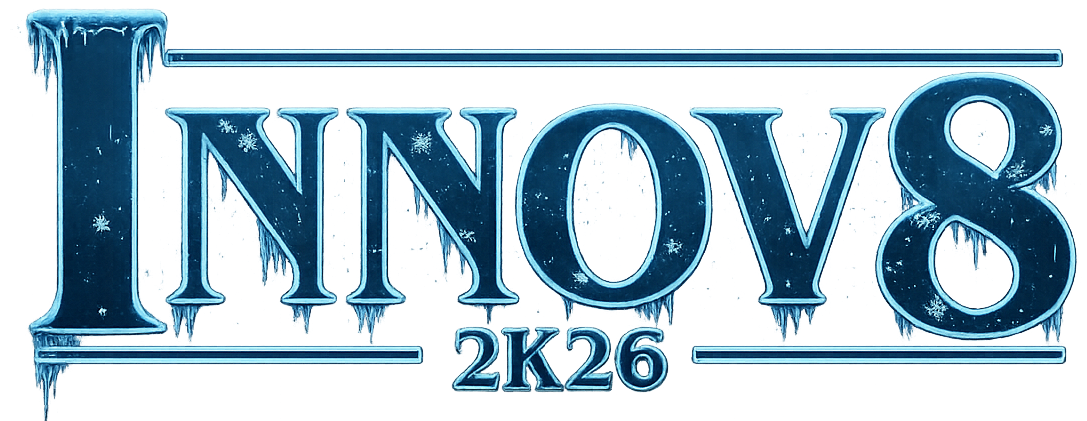
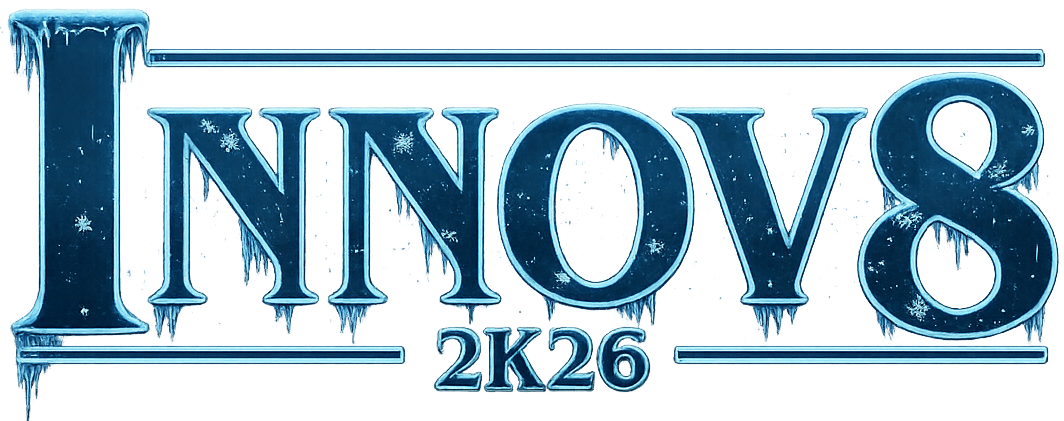
Updated UI fixes and spacing improvements

diff --git a/src/components/HeroSection.tsx b/src/components/HeroSection.tsx
@@ -27,7 +27,7 @@ const HeroSection: React.FC = () => {
         overflow: "hidden",
       }}
     >
-      {/* Google Font Import */}
+      {/* Google Font Import (INLINE SAFE) */}
       <style>
         {`
           @import url('https://fonts.googleapis.com/css2?family=Irish+Grover&display=swap');
@@ -53,10 +53,10 @@ const HeroSection: React.FC = () => {
         {/* Subtitle */}
         <p
           style={{
-            fontSize: "16px", // ⬆ increased
-            letterSpacing: "0.32em",
+            fontSize: "14px",
+            letterSpacing: "0.3em",
             textTransform: "uppercase",
-            marginBottom: "26px",
+            marginBottom: "24px",
             color: isStrangerWorld
               ? "rgba(255,120,120,0.85)"
               : "rgba(120,170,255,0.85)",
@@ -67,37 +67,47 @@ const HeroSection: React.FC = () => {
           Department of Computer Science and Engineering proudly presents
         </p>
 
-        {/* Title Image Switch */}
+        {/* ✅ TITLE IMAGE SWITCH (PERFECTLY CENTERED & RESPONSIVE) */}
         <div
           style={{
             position: "relative",
-            marginBottom: "28px",
+            marginBottom: "24px",
+            width: "100%",
+            maxWidth: "720px",
+            marginInline: "auto",
           }}
         >
+          {/* Normal World */}
           <img
             src={titleNormal1}
             alt="Normal World"
             style={{
-              width: "760px", // ⬆ slightly bigger
-              maxWidth: "92%",
+              width: "100%",
+              height: "auto",
+              display: "block",
+              margin: "0 auto",
               transition: "all 0.7s ease",
               opacity: isStrangerWorld ? 0 : 1,
               transform: isStrangerWorld ? "scale(0.95)" : "scale(1)",
+              position: isStrangerWorld ? "absolute" : "relative",
+              inset: 0,
             }}
           />
 
+          {/* Stranger World */}
           <img
             src={titleNormal2}
             alt="Stranger World"
             style={{
-              position: "absolute",
-              inset: 0,
-              margin: "auto",
-              width: "760px", // ⬆ slightly bigger
-              maxWidth: "92%",
+              width: "100%",
+              height: "auto",
+              display: "block",
+              margin: "0 auto",
               transition: "all 0.7s ease",
               opacity: isStrangerWorld ? 1 : 0,
               transform: isStrangerWorld ? "scale(1)" : "scale(1.05)",
+              position: isStrangerWorld ? "relative" : "absolute",
+              inset: 0,
             }}
           />
         </div>
@@ -105,9 +115,9 @@ const HeroSection: React.FC = () => {
         {/* Tagline */}
         <p
           style={{
-            fontSize: "30px", // ⬆ increased
-            letterSpacing: "0.22em",
-            marginBottom: "54px",
+            fontSize: "26px",
+            letterSpacing: "0.2em",
+            marginBottom: "48px",
             color: isStrangerWorld
               ? "rgba(255,80,80,0.9)"
               : "rgba(120,170,255,0.9)",
@@ -122,11 +132,11 @@ const HeroSection: React.FC = () => {
         <button
           onClick={handleRegisterClick}
           style={{
-            padding: "18px 46px", // ⬆ increased
-            fontSize: "20px", // ⬆ increased
-            letterSpacing: "0.22em",
+            padding: "16px 40px",
+            fontSize: "18px",
+            letterSpacing: "0.2em",
             textTransform: "uppercase",
-            borderRadius: "12px",
+            borderRadius: "10px",
             cursor: "pointer",
             border: `2px solid ${
               isStrangerWorld ? "#f87171" : "#60a5fa"
@@ -136,7 +146,7 @@ const HeroSection: React.FC = () => {
             transition: "all 0.4s ease",
           }}
           onMouseEnter={(e) =>
-            (e.currentTarget.style.transform = "scale(1.08)")
+            (e.currentTarget.style.transform = "scale(1.07)")
           }
           onMouseLeave={(e) =>
             (e.currentTarget.style.transform = "scale(1)")
@@ -146,7 +156,7 @@ const HeroSection: React.FC = () => {
         </button>
 
         {/* Countdown */}
-        <div style={{ marginTop: "56px" }}>
+        <div style={{ marginTop: "50px" }}>
           <CountdownTimer />
         </div>
       </div>
@@ -165,8 +175,8 @@ const HeroSection: React.FC = () => {
             key={i}
             style={{
               position: "absolute",
-              width: "5px", // ⬆ slightly bigger
-              height: "5px",
+              width: "4px",
+              height: "4px",
               borderRadius: "50%",
               background: isStrangerWorld ? "red" : "#60a5fa",
               left: `${Math.random() * 100}%`,

diff --git a/src/components/CountdownTimer.tsx b/src/components/CountdownTimer.tsx
@@ -1,5 +1,5 @@
-import React, { useState, useEffect } from 'react';
-import { useWorld } from '@/contexts/WorldContext';
+import React, { useState, useEffect } from "react";
+import { useWorld } from "@/contexts/WorldContext";
 
 interface TimeLeft {
   days: number;
@@ -10,24 +10,24 @@ interface TimeLeft {
 
 const CountdownTimer: React.FC = () => {
   const { isStrangerWorld } = useWorld();
-  
-  // Set target date to 30 days from now for demo
-  const targetDate = new Date();
-  targetDate.setDate(targetDate.getDate() + 30);
+
+  // 🎯 FIXED EVENT DATE: February 25, 2026 (change year if needed)
+  const targetDate = new Date(2026, 1, 25, 0, 0, 0); // YYYY, MM(0-based), DD
 
   const calculateTimeLeft = (): TimeLeft => {
-    const difference = targetDate.getTime() - new Date().getTime();
-    
-    if (difference > 0) {
-      return {
-        days: Math.floor(difference / (1000 * 60 * 60 * 24)),
-        hours: Math.floor((difference / (1000 * 60 * 60)) % 24),
-        minutes: Math.floor((difference / 1000 / 60) % 60),
-        seconds: Math.floor((difference / 1000) % 60),
-      };
+    const now = new Date().getTime();
+    const difference = targetDate.getTime() - now;
+
+    if (difference <= 0) {
+      return { days: 0, hours: 0, minutes: 0, seconds: 0 };
     }
-    
-    return { days: 0, hours: 0, minutes: 0, seconds: 0 };
+
+    return {
+      days: Math.floor(difference / (1000 * 60 * 60 * 24)),
+      hours: Math.floor((difference / (1000 * 60 * 60)) % 24),
+      minutes: Math.floor((difference / (1000 * 60)) % 60),
+      seconds: Math.floor((difference / 1000) % 60),
+    };
   };
 
   const [timeLeft, setTimeLeft] = useState<TimeLeft>(calculateTimeLeft());
@@ -40,15 +40,13 @@ const CountdownTimer: React.FC = () => {
     return () => clearInterval(timer);
   }, []);
 
-  const formatNumber = (num: number): string => {
-    return num.toString().padStart(2, '0');
-  };
+  const formatNumber = (num: number) => num.toString().padStart(2, "0");
 
   const timeUnits = [
-    { label: 'Days', value: timeLeft.days },
-    { label: 'Hours', value: timeLeft.hours },
-    { label: 'Minutes', value: timeLeft.minutes },
-    { label: 'Seconds', value: timeLeft.seconds },
+    { label: "Days", value: timeLeft.days },
+    { label: "Hours", value: timeLeft.hours },
+    { label: "Minutes", value: timeLeft.minutes },
+    { label: "Seconds", value: timeLeft.seconds },
   ];
 
   return (
@@ -57,20 +55,28 @@ const CountdownTimer: React.FC = () => {
         <div
           key={unit.label}
           className={`countdown-box rounded-lg p-4 md:p-6 min-w-[70px] md:min-w-[90px] text-center transition-all duration-700 ${
-            isStrangerWorld 
-              ? 'border-red-500/50 bg-black/60' 
-              : 'border-primary/50 bg-card/50'
+            isStrangerWorld
+              ? "border-red-500/50 bg-black/60"
+              : "border-primary/50 bg-card/50"
           }`}
           style={{ animationDelay: `${index * 0.1}s` }}
         >
-          <div className={`font-display text-3xl md:text-4xl font-bold transition-all duration-700 ${
-            isStrangerWorld ? 'text-red-500 text-glow' : 'text-primary text-glow'
-          }`}>
+          <div
+            className={`font-display text-3xl md:text-4xl font-bold transition-all duration-700 ${
+              isStrangerWorld
+                ? "text-red-500 text-glow"
+                : "text-primary text-glow"
+            }`}
+          >
             {formatNumber(unit.value)}
           </div>
-          <div className={`font-body text-xs uppercase tracking-wider mt-2 transition-all duration-700 ${
-            isStrangerWorld ? 'text-red-200/60' : 'text-muted-foreground'
-          }`}>
+          <div
+            className={`font-body text-xs uppercase tracking-wider mt-2 transition-all duration-700 ${
+              isStrangerWorld
+                ? "text-red-200/60"
+                : "text-muted-foreground"
+            }`}
+          >
             {unit.label}
           </div>
         </div>

diff --git a/src/components/ContactSection.tsx b/src/components/ContactSection.tsx
@@ -22,7 +22,6 @@ const ContactSection: React.FC = () => {
 
   return (
     <>
-      {/* ✅ SAME Irish Grover import style */}
       <style>
         {`
           @import url('https://fonts.googleapis.com/css2?family=Irish+Grover&display=swap');
@@ -32,7 +31,7 @@ const ContactSection: React.FC = () => {
       <section
         id="contact"
         style={{
-          padding: "100px 20px",
+          padding: "70px 20px", // 🔽 reduced top spacing
           fontFamily: "'Irish Grover', cursive",
           position: "relative",
         }}
@@ -111,7 +110,6 @@ const ContactSection: React.FC = () => {
                   {coord.name}
                 </p>
 
-                {/* Phone */}
                 <a
                   href={`tel:${coord.phone}`}
                   style={{
@@ -130,7 +128,6 @@ const ContactSection: React.FC = () => {
                   {coord.phone}
                 </a>
 
-                {/* Email */}
                 <a
                   href={`mailto:${coord.email}`}
                   style={{
@@ -237,11 +234,18 @@ const ContactSection: React.FC = () => {
                 }}
               >
                 <MapPin size={18} />
-                <p>
-                  Department of CSE,<br />
-                  Engineering College,<br />
-                  City, State - 600001
-                </p>
+                <a
+                  href="https://www.google.com/maps/dir/?api=1&destination=Vel+Tech+Rangarajan+Dr+Sagunthala+R%26D+Institute+of+Science+and+Technology"
+                  target="_blank"
+                  rel="noopener noreferrer"
+                  style={{ textDecoration: "none", color: "inherit" }}
+                >
+                  <p>
+                    Department of CSE VTMT<br />
+                    Engineering College,<br />
+                    City, State - 600001
+                  </p>
+                </a>
               </div>
             </div>
           </div>
@@ -261,13 +265,35 @@ const ContactSection: React.FC = () => {
           >
             <p
               style={{
+                margin: 0,
+                fontSize: "14px",
+                letterSpacing: "0.05em",
+                color: isStrangerWorld ? "#fecaca" : "#e0f2fe",
+                textShadow: isStrangerWorld
+                  ? "0 0 8px rgba(239,68,68,0.6)"
+                  : "0 0 8px rgba(59,130,246,0.5)",
+              }}
+            >
+              <span style={{ opacity: 0.7 }}>Special thanks to</span>
+              <br />
+              <strong style={{ fontSize: "15px" }}>
+                Dr. R. Saravanan, M.E., Ph.D.
+              </strong>
+              <br />
+              <span style={{ opacity: 0.75 }}>
+                Head of the Department
+              </span>
+            </p>
+
+            <p
+              style={{
                 fontSize: "14px",
                 color: isStrangerWorld
                   ? "rgba(252,165,165,0.5)"
                   : "rgba(203,213,225,0.6)",
               }}
             >
-              © 2024 INNOVATE8 - Department of Computer Science and Engineering
+              © 2026 INNOVATE8 - Department of Computer Science and Engineering
             </p>
           </div>
         </div>

diff --git a/src/components/Header.tsx b/src/components/Header.tsx
@@ -66,6 +66,23 @@ const Header: React.FC = () => {
                   width: "auto",
                 }}
               />
+              <p
+  style={{
+    background: "none",
+    border: "none",
+    cursor: "pointer",
+    fontSize: "13px",
+    letterSpacing: "0.2em",
+    textTransform: "uppercase",
+    color: isStrangerWorld
+      ? "#fecaca"
+      : "rgba(226,232,240,0.85)",
+    transition: "color 0.3s ease",
+  }}
+>
+  VELTECH MULTITECH
+</p>
+
             </div>
 
             {/* Desktop Navigation */}

diff --git a/src/components/EventsSection.tsx b/src/components/EventsSection.tsx
@@ -55,14 +55,6 @@ const nonTechnicalEvents = [
     icon: <Puzzle size={48} />,
     formUrl: "https://forms.gle/VECNAS_PATTERNS_FORM",
   },
-  {
-    id: "weknots",
-    title: "WeKnots",
-    description:
-      "Team building and networking event. Form connections, build alliances, and strengthen bonds in this collaborative experience.",
-    icon: <Link size={48} />,
-    formUrl: "https://forms.gle/WEKNOTS_FORM",
-  },
 ];
 
 const EventsSection: React.FC = () => {
